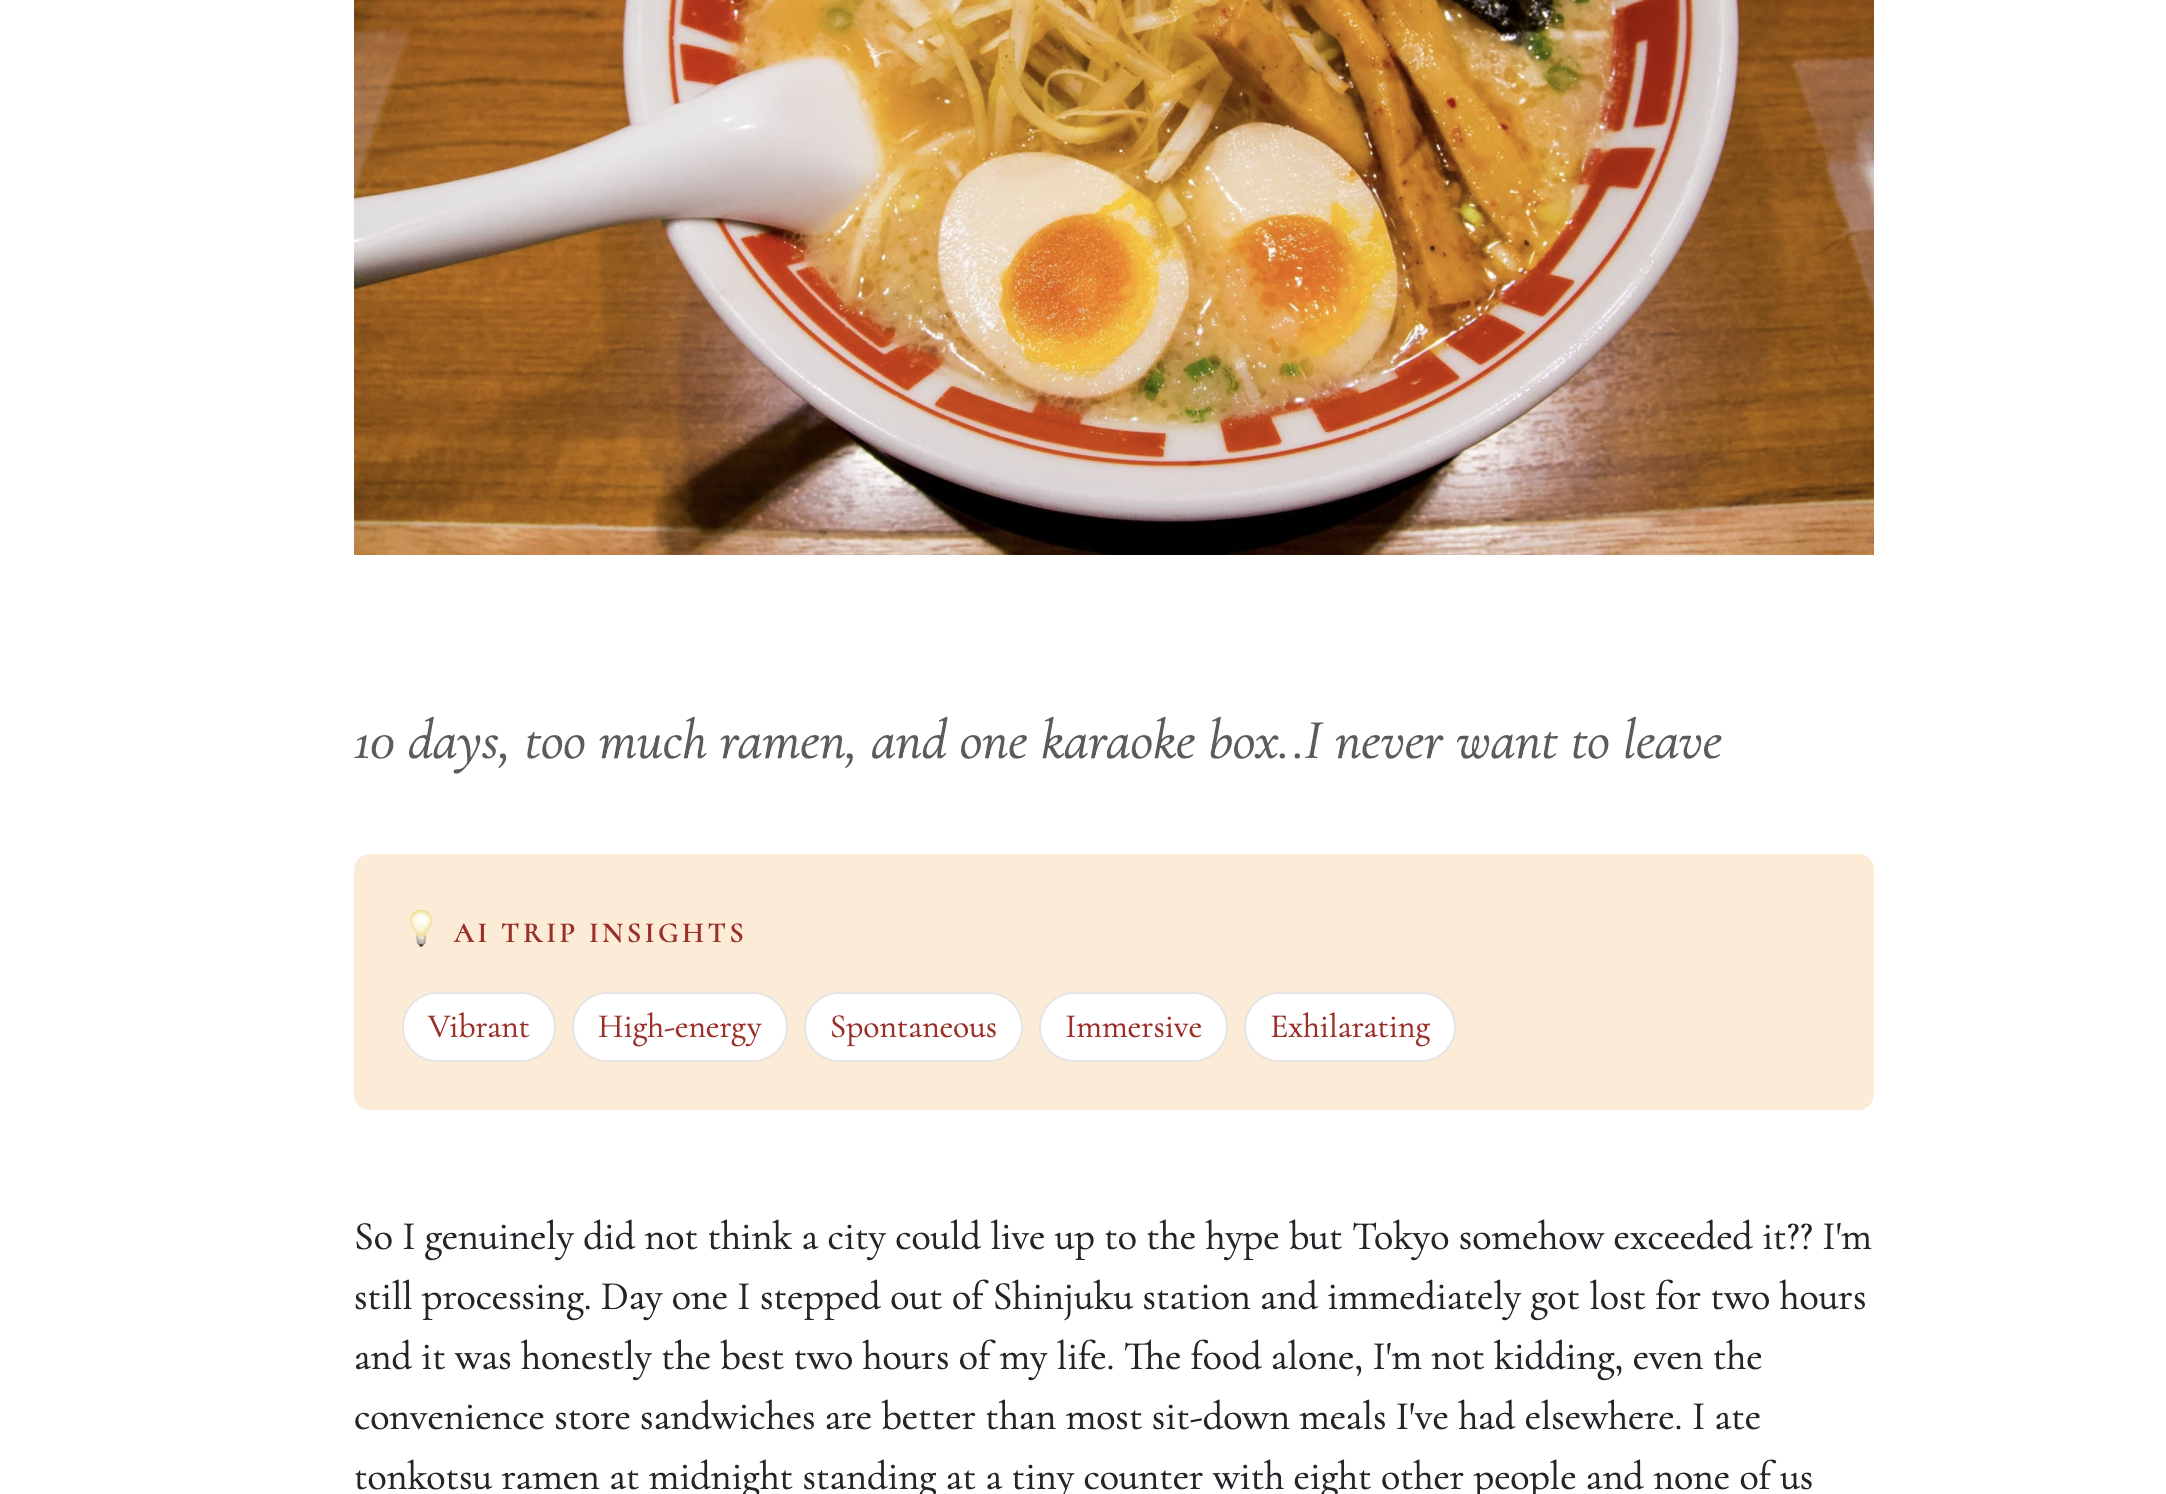
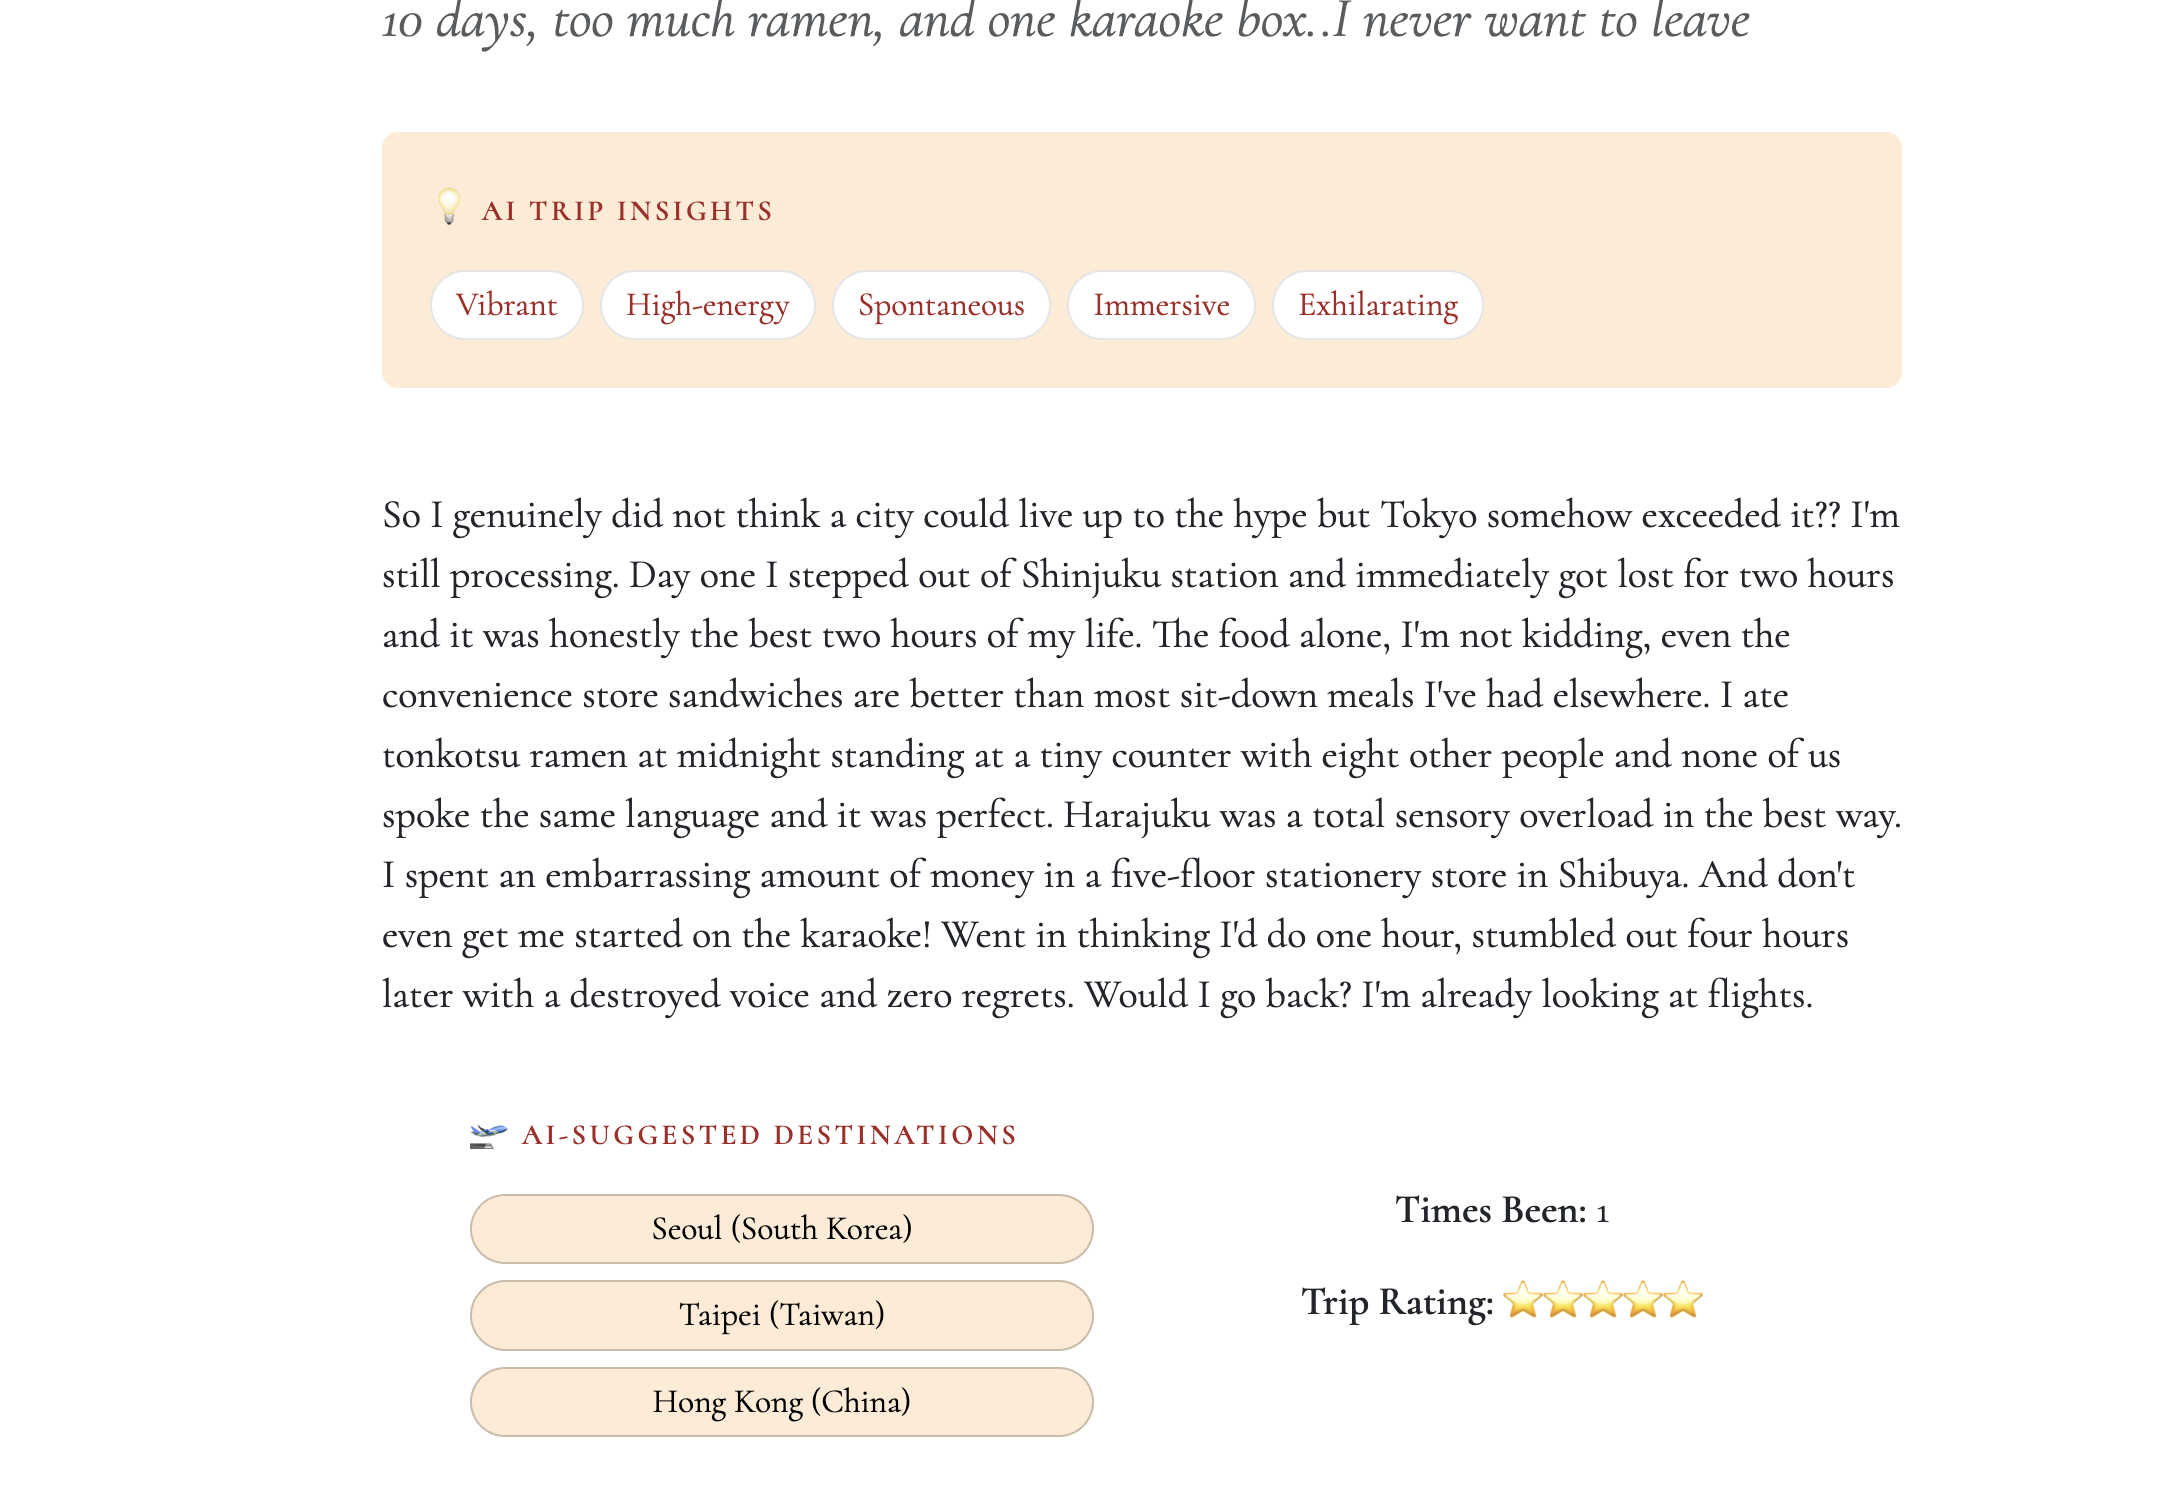
Update app screenshots and README

diff --git a/README.md b/README.md
@@ -7,7 +7,7 @@
 
 <img src="static/images/ai-insights.png" width="600"/>
 
-<img src="static/images/ai-chatbox.png" width="600"/>
+<img src="static/images/ai-chat.png" width="600"/>
 
 
 